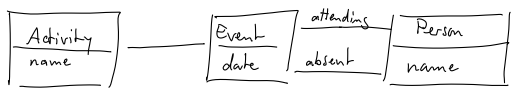
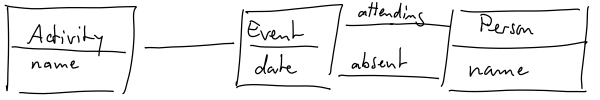
q001 example domain clear, looking for a good model implementation

diff --git a/doc/learned.html b/doc/learned.html
@@ -23,7 +23,26 @@
 
 		<h2>Q000 - What example domain should I use?</h2>
 
-		<p>No answer yet.</p>
+		<p>OK, this is a pseudo-question - but whatever! I'll start with a simple thing I have in mind:</p>
+
+		<p>Some friends and I meet every week for different... erh... activities. We have a web page for each <strong>Activity</strong>.<br>
+			One we call Fintentisch - we play boardgames.<br>
+			Another one is Ultimate - in summer we meet for playing Ultimate Frisbee.<br>
+			For each activity we want to have an editable list of upcoming <strong>Event</strong>s, each with its date and the list of <strong>Person</strong>s who will attend or be absent respectively.</p>
+
+		<p>This leaves us with two things:<p>
+
+		<ol>
+			<li>a domain model as simple as in the diagram below</li>
+			<li>the next question</li>
+		</ol>
+
+		<img src="img/domain-model-uml.png"/>
+
+
+		<h2>Q001 - What's a good way to implement a client-side application model?</h2>
+
+		<p>Answer pending...</p>
 
 
 		</div> <!-- container -->

diff --git a/index.html b/index.html
@@ -1,7 +1,7 @@
 <!DOCTYPE html>
 <html>
 	<head>
-		<title>goodui gitclass</title>
+		<title>goodui gitClass</title>
 		<link href="doc/css/bootstrap.min.css" rel="stylesheet" media="screen">
 	</head>
 	<body>
